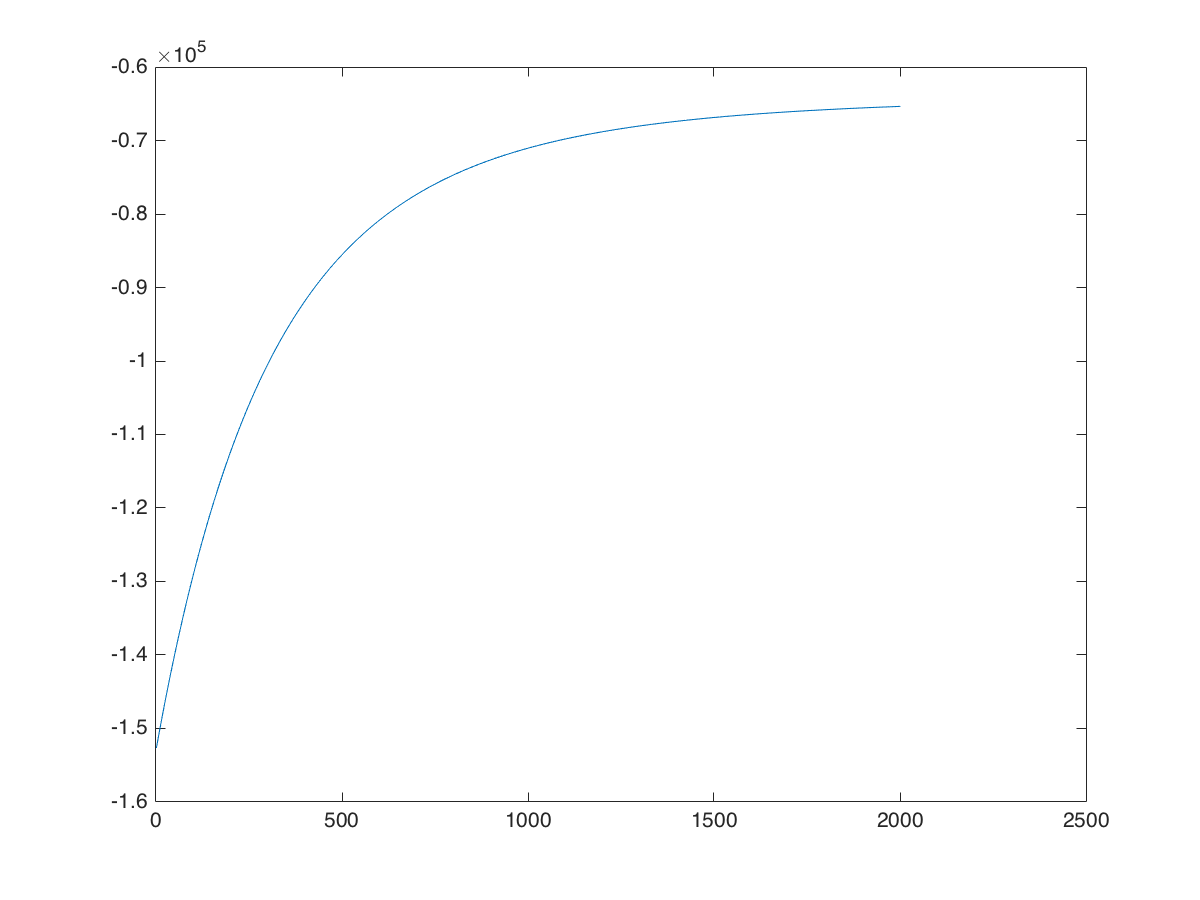
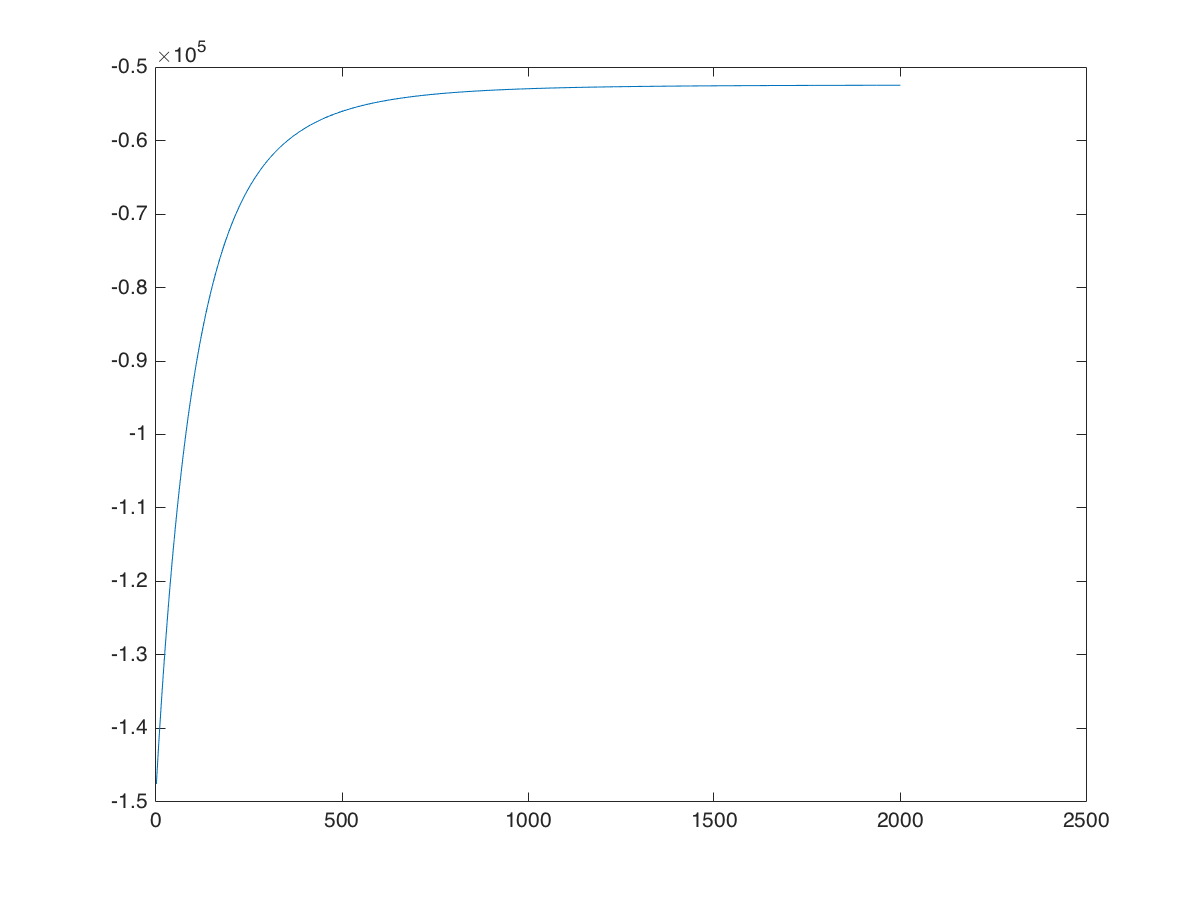
images ex4 and ex 5

diff --git a/ex5.m b/ex5.m
@@ -1,0 +1,47 @@
+sigma = 10;
+eta = 0.1;
+
+% Stripes
+TS = toy_stripes(100,50, 25);
+NS = add_noisy_stripe(TS,30,20);
+RS_gauss = denoising_grad_ascent(NS,sigma,eta);
+RS_student = denoising_grad_ascent_student(NS,sigma,eta,1);
+imshow(mat2gray(NS));
+waitforbuttonpress;
+imshow(mat2gray(RS_gauss));
+waitforbuttonpress;
+imshow(mat2gray(RS_student));
+waitforbuttonpress;
+imwrite(NS/255,'ex5_stripes_noise.png');
+imwrite(RS_gauss/255,'ex5_stripes_mrf_gaussian_filtered.png');
+imwrite(RS_student/255,'ex5_stripes_mrf_student_filtered.png');
+
+% Checkerboard
+TC = toy_checkerboard(100,50, [25 30]);
+NC = add_noisy_stripe(TC,30,20);
+RC_gauss = denoising_grad_ascent(NC,sigma,eta);
+RC_student = denoising_grad_ascent_student(NC,sigma,eta,1);
+imshow(mat2gray(NC));
+waitforbuttonpress;
+imshow(mat2gray(RC_gauss));
+waitforbuttonpress;
+imshow(mat2gray(RC_student));
+waitforbuttonpress;
+imwrite(NC/255,'ex5_checker_noise.png');
+imwrite(RC_gauss/255,'ex5_checker_mrf_gaussian_filtered.png');
+imwrite(RC_student/255,'ex5_checker_mrf_student_filtered.png');
+
+% Image
+TI = imread('la.png');
+TI = double(TI);
+NI = add_noisy_stripe(TI,30,20);
+RI_gauss = denoising_grad_ascent(NI,sigma,eta);
+RI_student = denoising_grad_ascent_student(NI,sigma,eta,1);
+imshow(mat2gray(NI));
+waitforbuttonpress;
+imshow(mat2gray(RI_gauss));
+waitforbuttonpress;
+imshow(mat2gray(RI_student));
+imwrite(NI/255,'ex5_image_noise.png');
+imwrite(RI_gauss/255,'ex5_image_mrf_gaussian_filtered.png');
+imwrite(RI_student/255,'ex5_image_mrf_student_filtered.png');

diff --git a/ex_4.m b/ex_4.m
@@ -1,25 +1,35 @@
-%Stripes 
-%T = toy_stripes(40,20, 4);
-T1 = imread('la.png');
-%N = add_sp_noise(T, 0.1);
-N = add_noise(T, 30);
+% Parameters
+sig = 10;
+eta = 0.1;
+alpha = 1;
 
+% Stripes
+TS = toy_stripes(100,50, 25);
+NS = add_sp_noise(TS, 0.1);
+RS = denoising_grad_ascent_student(NS, sig, eta, alpha);
+errS = calc_psnr(TS,RS);
+imshow(mat2gray(RS));
+waitforbuttonpress;
+imwrite(RS/255,'ex4_stripes_mrf_student_filtered.png');
 
-sig = [0.01, 0.5, 1, 2, 3, 4, 5, 6, 7, 10, 15, 25, 50, 100];
-mu = [0.1, 0.5, 1, 2, 5, 10, 12, 14, 15, 17, 20, 25, 50, 100];
-for i = (1:5)
-    for j = (1:5)
-        R = denoising_grad_ascent_student(N, 10^(i-2), 10^(j-2), 1);
-        err(i,j) = calc_psnr(T, R);
-        imshow(mat2gray(R));
-        waitforbuttonpress;
-    end
-end
+% Checkerboard
+TC = toy_checkerboard(100,50, [25 30]);
+NC = add_sp_noise(TC, 0.1);
+RC = denoising_grad_ascent_student(NC, sig, eta, alpha);
+errC = calc_psnr(TC,RC);
+imshow(mat2gray(RC));
+waitforbuttonpress;
+imwrite(RC/255,'ex4_checker_mrf_student_filtered.png');
 
-[num idx] = max(err(:));
-num
-[x y] = ind2sub(size(err),idx)
+% Image
+TI = imread('la.png');
+TI = double(TI);
+NI = add_noise(TI, 25);
+RI = denoising_grad_ascent(NI, sig, eta);
+errI = calc_psnr(TI,RI);
+imshow(mat2gray(RI));
+waitforbuttonpress;
+imwrite(RI/255,'ex4_image_mrf_student_filtered.png');
 
-R = denoising_grad_ascent_student(N, sig(x), mu(y), 1);
-err = calc_psnr(T, R)
-imshow(mat2gray(R));
+display('PSNR for stripes, checkerboard, image:');
+display([errS errC errI]);

diff --git a/ex_3.m b/ex_3.m
@@ -1,24 +1,26 @@
 % Parameters
-sig = 3;
+sig = 10;
 eta = 0.1;
 
 % Stripes
 TS = toy_stripes(100,50, 25);
 NS = add_sp_noise(TS, 0.1);
 RS = denoising_grad_ascent(NS, sig, eta);
-%waitforbuttonpress;
+waitforbuttonpress;
 errS = calc_psnr(TS,RS);
 imshow(mat2gray(RS));
-%waitforbuttonpress;
+waitforbuttonpress;
 
-% Checkeboard
+% Checkerboard
 TC = toy_checkerboard(100,50, [25 30]);
 NC = add_sp_noise(TC, 0.1);
+imshow(mat2gray(NC));
+waitforbuttonpress;
 RC = denoising_grad_ascent(NC, sig, eta);
-%waitforbuttonpress;
+waitforbuttonpress;
 errC = calc_psnr(TC,RC);
 imshow(mat2gray(RC));
-%waitforbuttonpress;
+waitforbuttonpress;
 
 % Image
 TI = imread('la.png');
@@ -26,5 +28,7 @@ TI = double(TI);
 NI = add_noise(TI, 25);
 RI = denoising_grad_ascent(NI, sig, eta);
 waitforbuttonpress;
-errI = calc_psnr(TI,RI)
+errI = calc_psnr(TI,RI);
+imshow(mat2gray(NI));
+waitforbuttonpress;
 imshow(mat2gray(RI));

diff --git a/ex_2.m b/ex_2.m
@@ -9,7 +9,9 @@ checker_filtered = median_filter(checker_noise, 5);
 imshow(mat2gray(checker_filtered));
 
 img = imread('la.png');
+img = double(img);
 img_noise = add_noise(img, 25);
 imshow(mat2gray(img_noise));
 img_filtered = median_filter(img_noise, 5);
+waitforbuttonpress;
 imshow(mat2gray(img_filtered));
